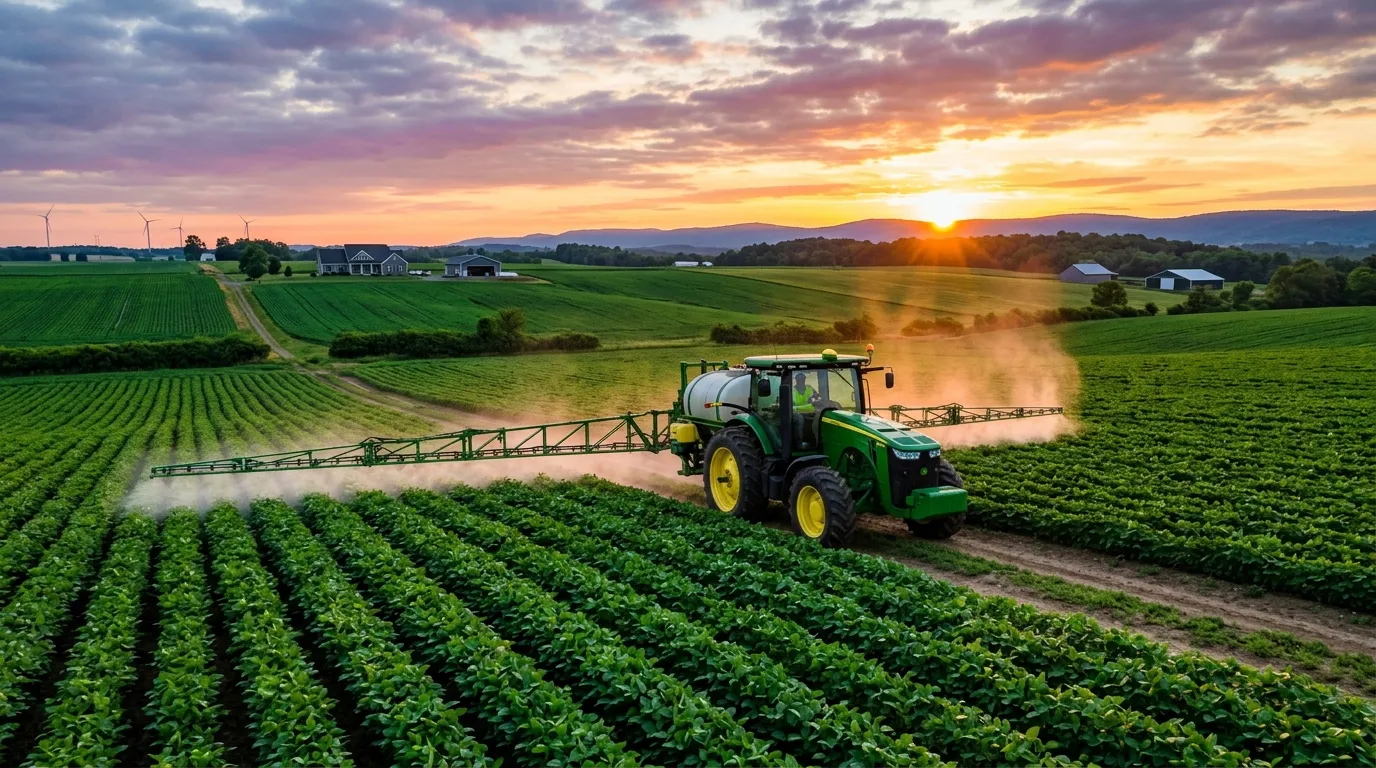
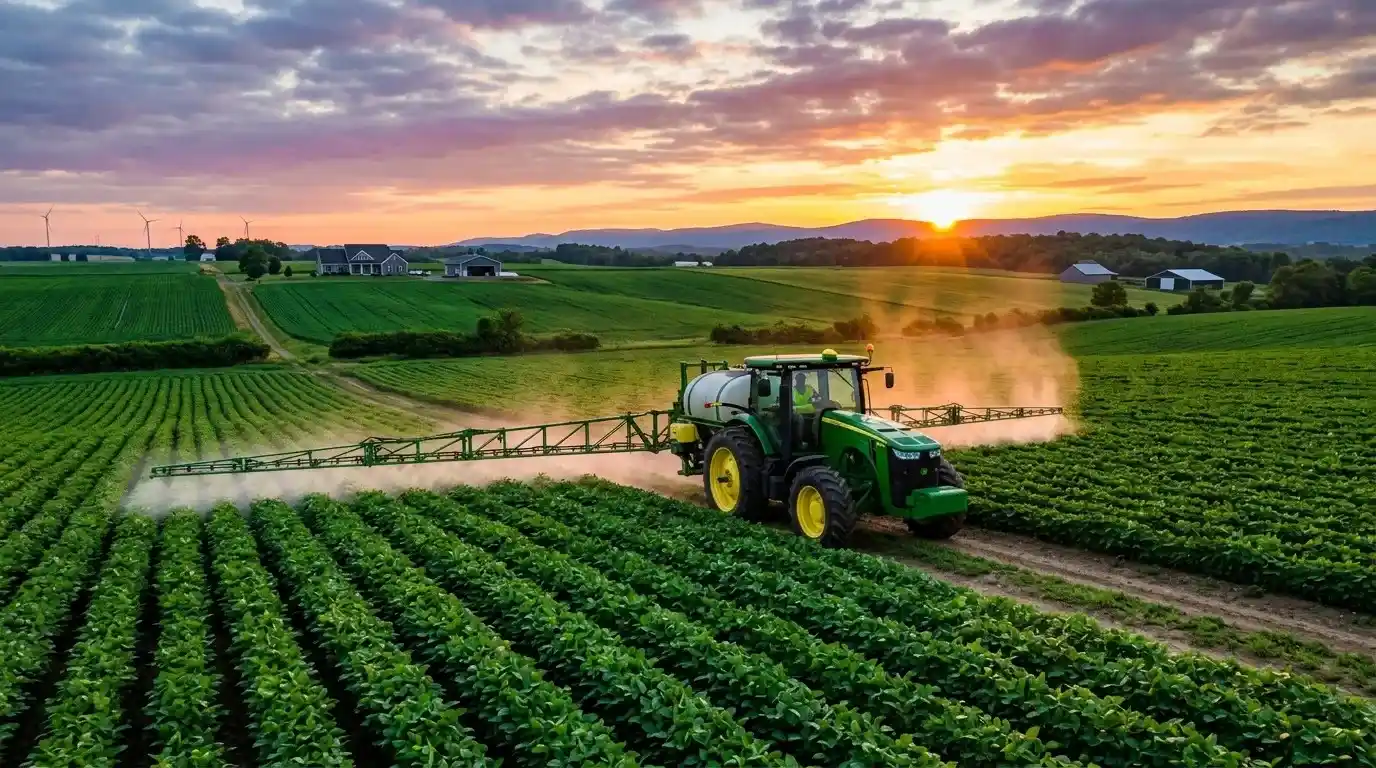
first bug cleared

diff --git a/css/style.css b/css/style.css
@@ -2466,3 +2466,34 @@ img {
   filter: brightness(1.2);
   transform: translateY(-3px);
 }
+
+/* Mobile Menu Only Login Button */
+.mobile-only-login {
+  display: none;
+}
+
+@media (max-width: 991px) {
+  .mobile-only-login {
+    display: block !important;
+    margin-top: 1.5rem;
+    width: 100%;
+    text-align: center;
+    padding: 0 1.5rem;
+  }
+  .login-nav-mobile {
+    background-color: var(--accent) !important;
+    color: var(--bg-white) !important;
+    padding: 0.85rem 2rem !important;
+    border-radius: var(--radius-sm) !important;
+    display: inline-block !important;
+    font-weight: 700 !important;
+    width: 100%;
+    box-sizing: border-box;
+    text-align: center;
+    box-shadow: 0 4px 6px rgba(0,0,0,0.1);
+  }
+  .login-nav-mobile:hover {
+    background-color: var(--primary) !important;
+    transform: translateY(-2px);
+  }
+}

diff --git a/services.html b/services.html
@@ -38,6 +38,7 @@
         <li><a href="crops.html" class="nav-link">Crops</a></li>
         <li><a href="products.html" class="nav-link">Products</a></li>
         <li><a href="contact.html" class="nav-link">Contact Us</a></li>
+        <li class="mobile-only-login"><a href="login.html" class="nav-link login-nav-mobile">Log In</a></li>
       </ul>
 
       <a href="login.html" class="nav-cta">Log In</a>
@@ -294,7 +295,7 @@
         <!-- Card 3 -->
         <div class="product-card">
           <div class="product-image-container">
-            <img src="images/pesticides.jpg" alt="Pesticides">
+            <img src="images/pesticides.webp" alt="Pesticides">
           </div>
           <div class="product-content">
             <h3 class="product-title" style="font-size: 1.15rem; font-weight: 700;">Pesticides</h3>

diff --git a/index.html b/index.html
@@ -38,6 +38,7 @@
         <li><a href="crops.html" class="nav-link">Crops</a></li>
         <li><a href="products.html" class="nav-link">Products</a></li>
         <li><a href="contact.html" class="nav-link">Contact Us</a></li>
+        <li class="mobile-only-login"><a href="login.html" class="nav-link login-nav-mobile">Log In</a></li>
       </ul>
 
       <a href="login.html" class="nav-cta">Log In</a>
@@ -498,7 +499,7 @@
         <!-- Blog 2 -->
         <div class="blog-card">
           <div class="blog-image">
-            <img src="images/pesticides.jpg" alt="Pest Protection">
+            <img src="images/pesticides.webp" alt="Pest Protection">
             
             <span class="blog-tag">Crop Care</span>
           </div>

diff --git a/contact.html b/contact.html
@@ -38,6 +38,7 @@
         <li><a href="crops.html" class="nav-link">Crops</a></li>
         <li><a href="products.html" class="nav-link">Products</a></li>
         <li><a href="contact.html" class="nav-link active">Contact Us</a></li>
+        <li class="mobile-only-login"><a href="login.html" class="nav-link login-nav-mobile">Log In</a></li>
       </ul>
 
       <a href="404.html" class="nav-cta" style="background-color: var(--accent);">Get a Quote</a>

diff --git a/crops.html b/crops.html
@@ -38,6 +38,7 @@
         <li><a href="crops.html" class="nav-link active">Crops</a></li>
         <li><a href="products.html" class="nav-link">Products</a></li>
         <li><a href="contact.html" class="nav-link">Contact Us</a></li>
+        <li class="mobile-only-login"><a href="login.html" class="nav-link login-nav-mobile">Log In</a></li>
       </ul>
 
       <a href="login.html" class="nav-cta">Log In</a>

diff --git a/products.html b/products.html
@@ -38,6 +38,7 @@
         <li><a href="crops.html" class="nav-link">Crops</a></li>
         <li><a href="products.html" class="nav-link active">Products</a></li>
         <li><a href="contact.html" class="nav-link">Contact Us</a></li>
+        <li class="mobile-only-login"><a href="login.html" class="nav-link login-nav-mobile">Log In</a></li>
       </ul>
 
       <a href="login.html" class="nav-cta">Log In</a>

diff --git a/about.html b/about.html
@@ -38,6 +38,7 @@
         <li><a href="crops.html" class="nav-link">Crops</a></li>
         <li><a href="products.html" class="nav-link">Products</a></li>
         <li><a href="contact.html" class="nav-link">Contact Us</a></li>
+        <li class="mobile-only-login"><a href="login.html" class="nav-link login-nav-mobile">Log In</a></li>
       </ul>
 
       <a href="login.html" class="nav-cta">Log In</a>
